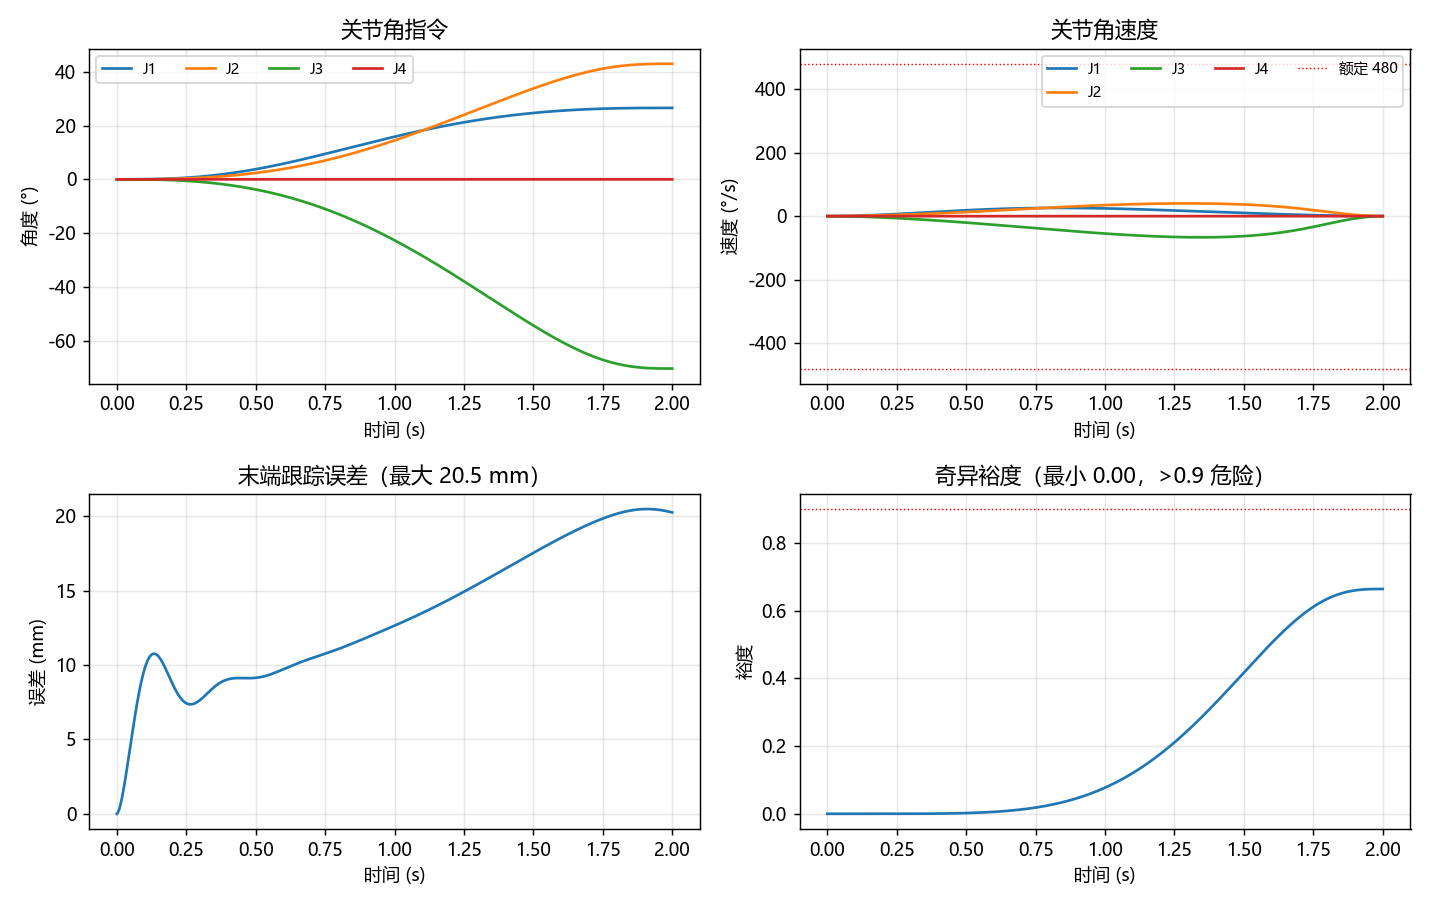
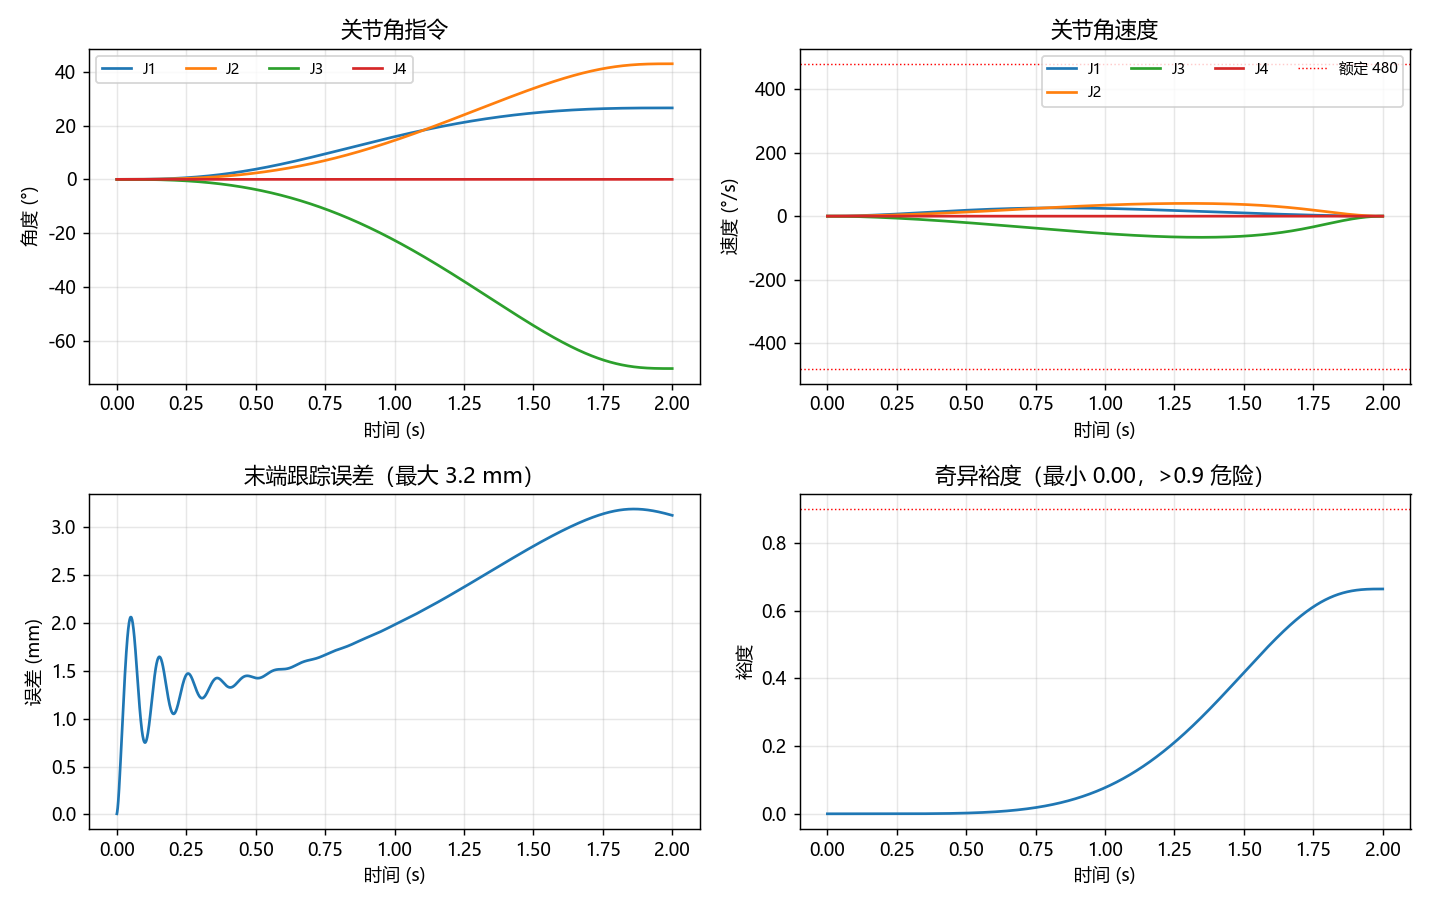
修 mujoco_traj 的 --kp 未生效：原来只声明不应用
- 现在加载模型后按 --kp 重写 gainprm[0] 与 biasprm[1]
- 实测 kp 400/800/2000/5000 的稳态误差差异（见提交说明）

diff --git a/tools/mujoco_traj.py b/tools/mujoco_traj.py
@@ -47,6 +47,10 @@ def main():
 
     import mujoco
     model = mujoco.MjModel.from_xml_path(str(MJCF))
+    # 应用 --kp：position 执行器的 gainprm[0]=kp，biasprm[1]=-kp
+    for i in range(model.nu):
+        model.actuator_gainprm[i, 0] = args.kp
+        model.actuator_biasprm[i, 1] = -args.kp
     data = mujoco.MjData(model)
     N = int(args.t / model.opt.timestep)
 
